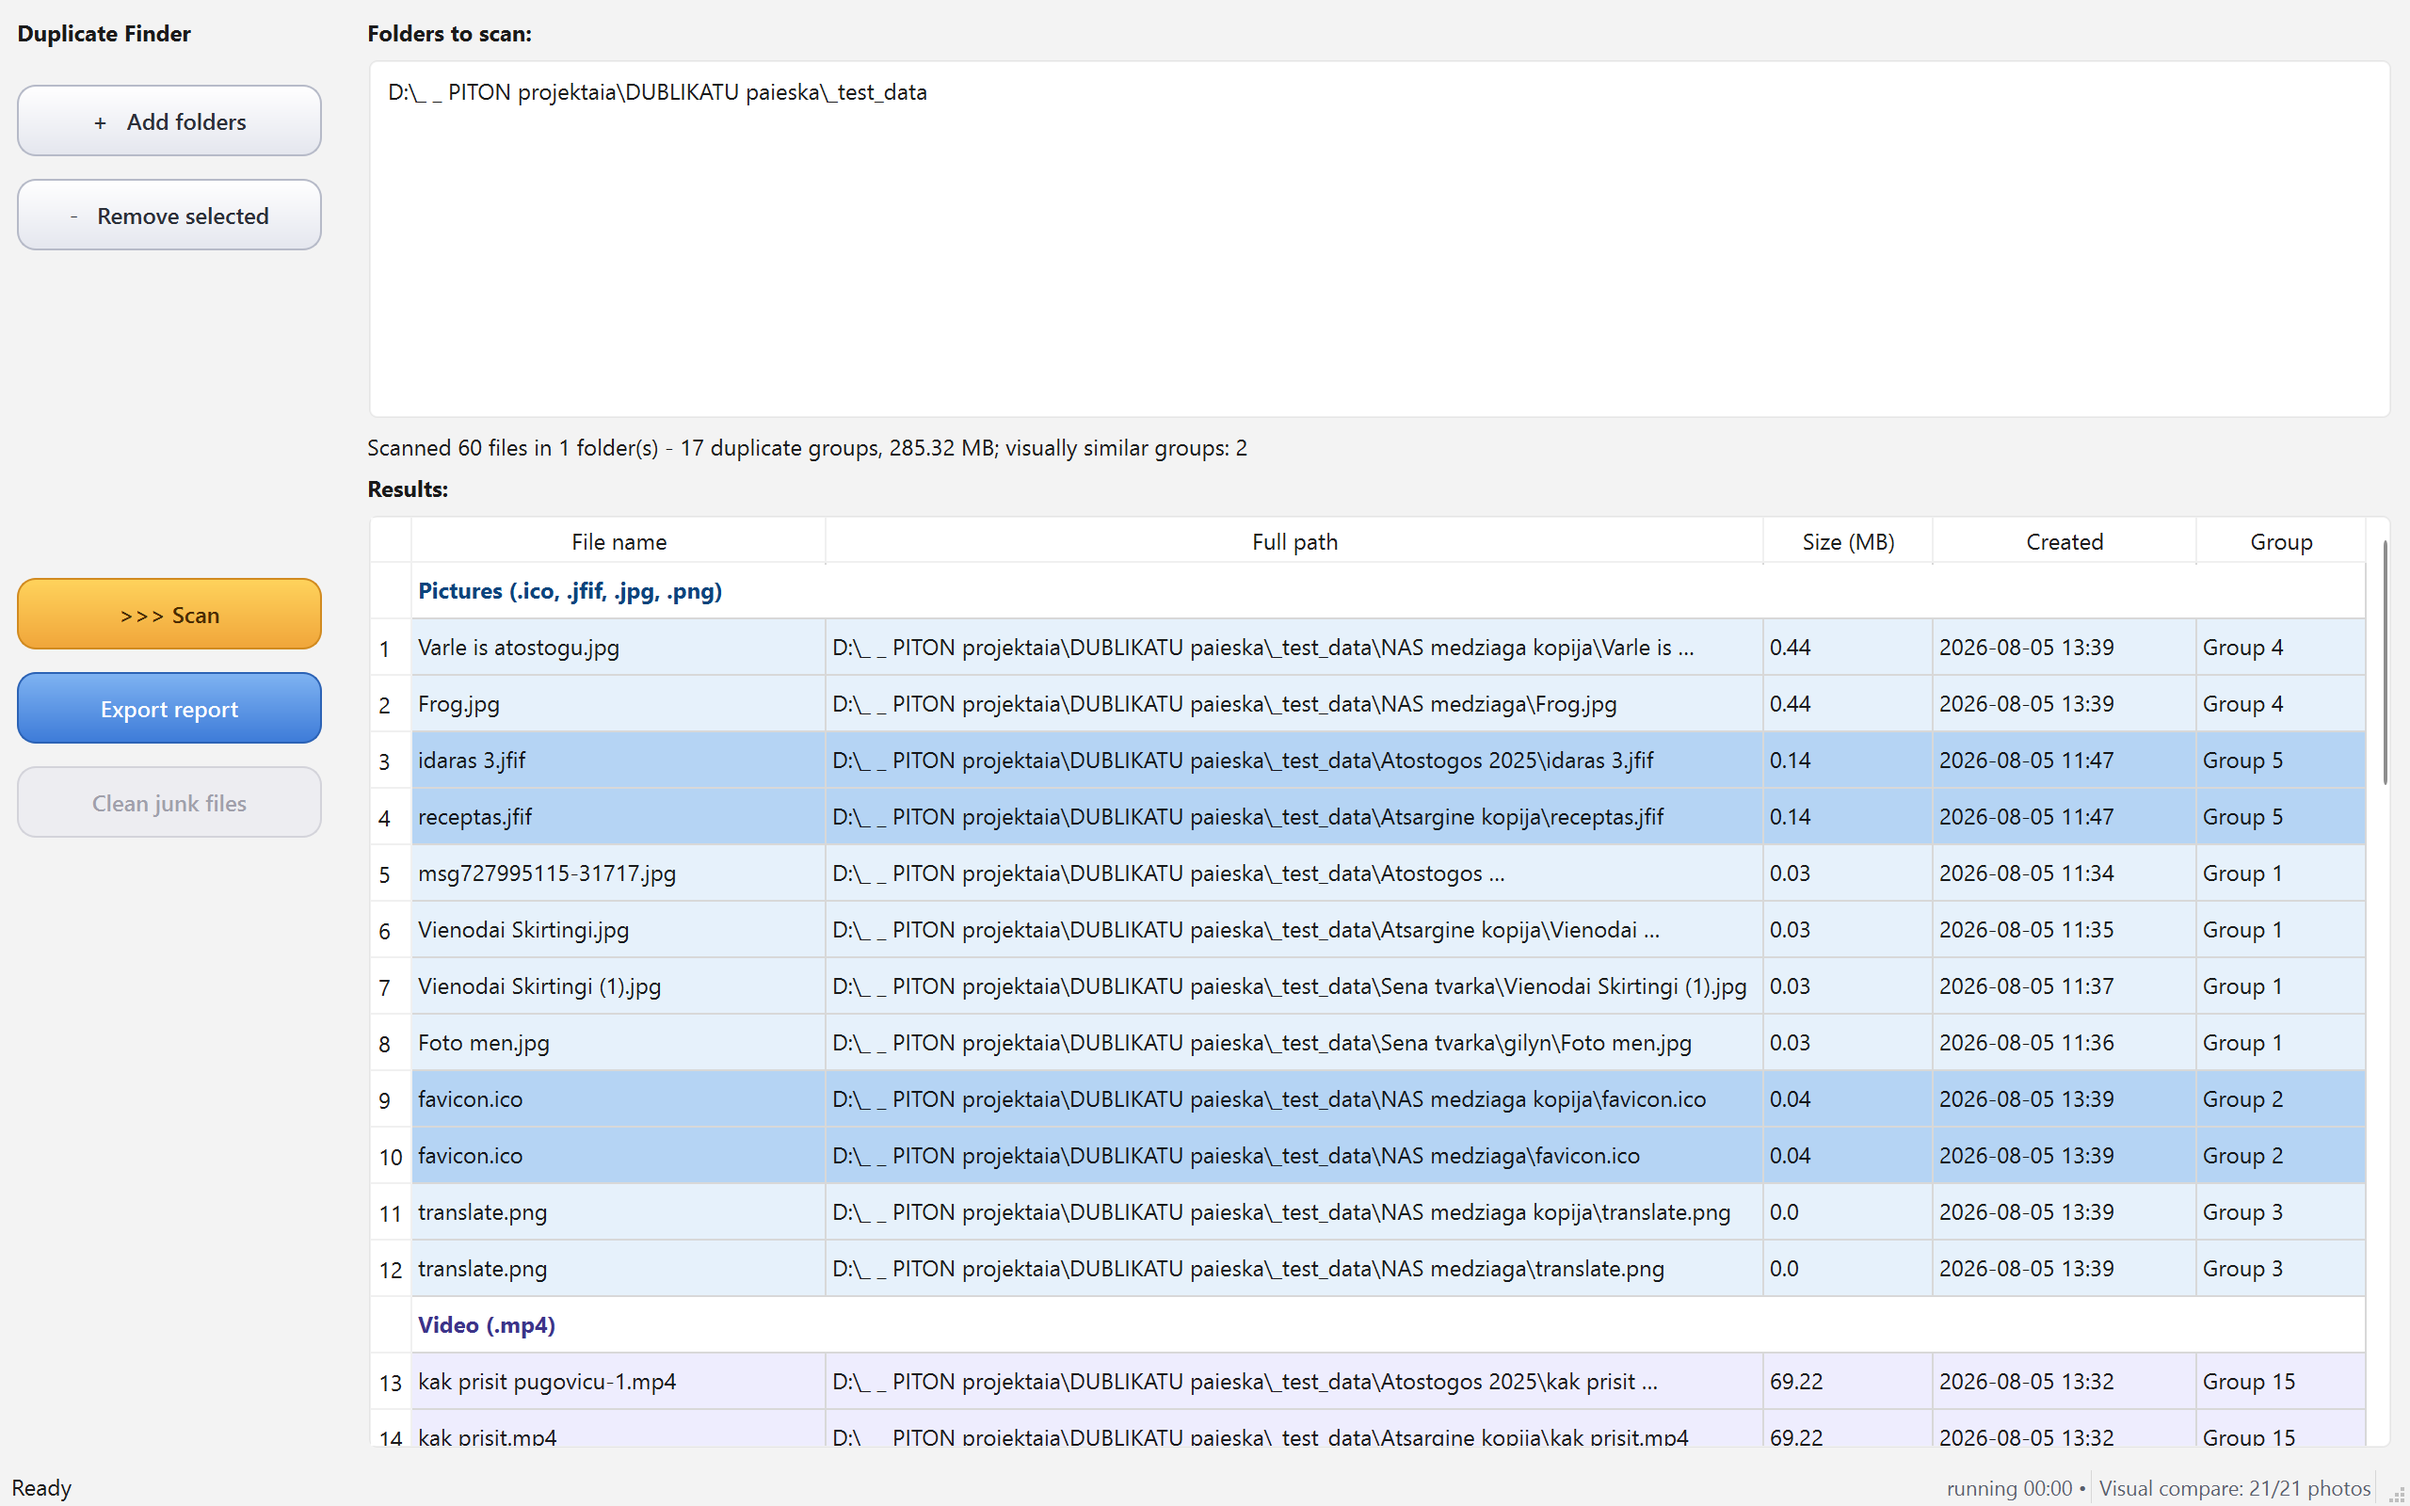
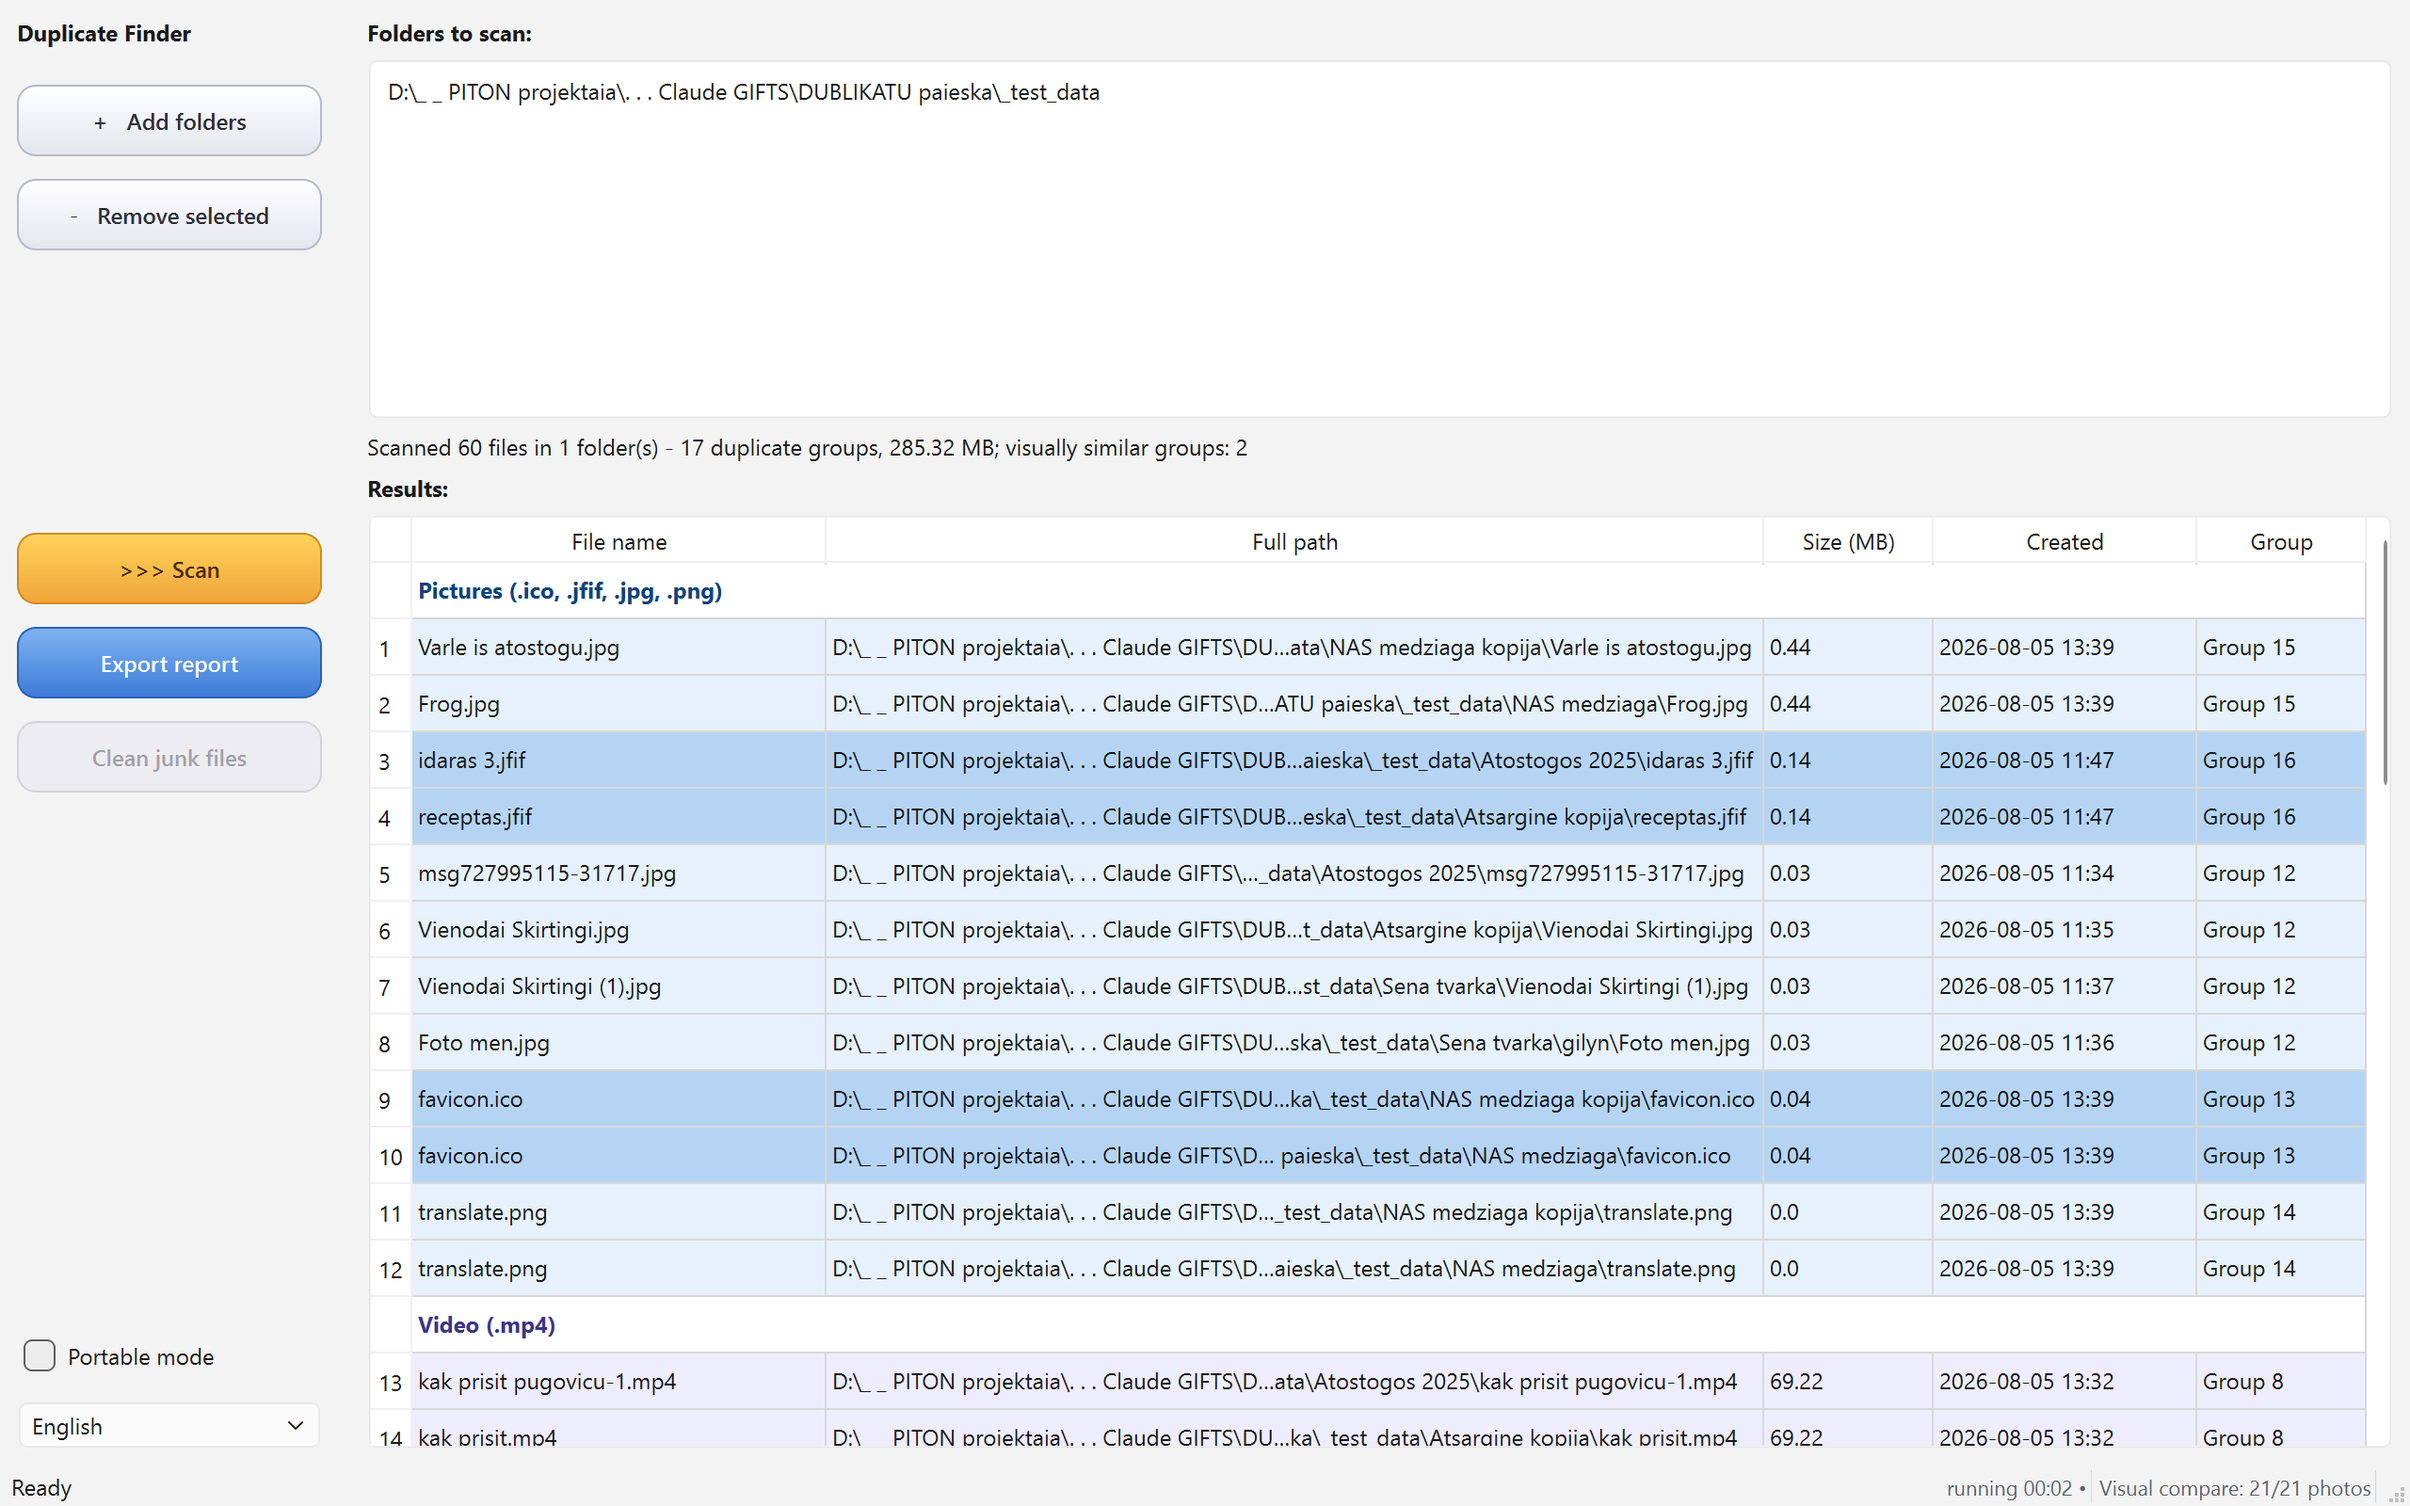
README for v1.1: single exe download, portable mode section, refreshed screenshots

diff --git a/README.md b/README.md
@@ -50,10 +50,14 @@ removal, and nothing happens without your confirmation.
 - **Scan memory** — results are cached; on next start the program offers to load the
   previous scan so you can export immediately without re-scanning.
 - **Double-click any row** → Explorer opens with the file selected.
-- **Portable** — one exe, no installation, no Python. Runs from a USB stick and
-  writes nothing next to itself (service files go to `%TEMP%` of the host machine).
+- **Portable** — one exe, no installation, no Python. Working files (scan cache,
+  activity log) live in `%LOCALAPPDATA%\SmartDuplicateFinder`; tick **Portable
+  mode** and they move next to the exe instead — perfect for a USB stick, no
+  traces left on the host machine (a `portable.txt` marker makes the mode travel
+  with your stick, the Notepad++ convention).
 - **No ads, no telemetry, no network access.** MIT licensed.
-- **UI in English and Lithuanian** (separate exe builds; readmes also in Russian).
+- **UI in English and Lithuanian** — switched inside the app; first run follows
+  your Windows language (readmes also in Russian).
 
 ## Download
 
@@ -61,8 +65,7 @@ Grab the latest exe from **[Releases](../../releases)**:
 
 | File | UI language |
 |---|---|
-| `SmartDuplicateFinder-en.exe` | English |
-| `SmartDuplicateFinder.exe` | Lithuanian |
+| `SmartDuplicateFinder.exe` | English / Lithuanian — switch inside the app |
 
 **Requirements:** Windows 10 or newer, 64-bit. (On Windows 7 the exe will not
 start — it reports a missing `api-ms-win-core-path-l1-1-0.dll`. That is a hard
